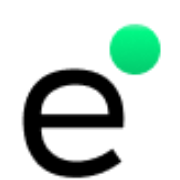
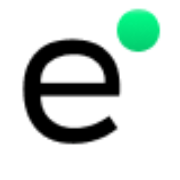
Final touch ecomdot

diff --git a/app/components/Header.tsx b/app/components/Header.tsx
@@ -11,10 +11,10 @@ interface HeaderProps {
 export function Header({  textClass }: HeaderProps) {
   const { theme } = useTheme();
   return (
-    <div className="flex items-center flex-row justify-center  md:justify-between md:px-10 px-4 py-4 shrink ">
-          <div className=" flex space-x-2 items-start ">
+    <div className="flex items-center py-4 flex-row justify-center  md:justify-between md:px-10 px-4  shrink ">
+          <div className=" ">
             <Link to="/" className={`flex space-x-3 justify-start items-center ${textClass || 'text-white h-8'}`} >             
-           <svg className="h-10" viewBox="0 0 282 92" fill="none" xmlns="http://www.w3.org/2000/svg">
+           <svg className="h-8" viewBox="0 0 282 92" fill="none" xmlns="http://www.w3.org/2000/svg">
            <title>Ecom Dot</title>
 <g clip-path="url(#clip0_1908_224)">
 <path d="M49.152 57.304H11.808C11.936 61.464 13.056 64.76 15.168 67.192C17.28 69.624 19.968 71.224 23.232 71.992C26.496 72.76 29.984 72.696 33.696 71.8C37.408 70.904 40.928 69.208 44.256 66.712L48.288 72.664C45.152 75.096 41.888 76.888 38.496 78.04C35.104 79.192 31.712 79.8 28.32 79.864C20.32 80.056 14.208 77.848 9.984 73.24C5.76 68.568 3.648 62.072 3.648 53.752C3.648 46.648 5.632 40.984 9.6 36.76C13.632 32.536 19.456 30.456 27.072 30.52C32.064 30.52 36.32 31.544 39.84 33.592C43.36 35.64 45.952 38.68 47.616 42.712C48.448 44.696 48.96 46.904 49.152 49.336C49.408 51.768 49.408 54.424 49.152 57.304ZM27.456 37.624C23.104 37.624 19.392 38.776 16.32 41.08C13.312 43.32 11.808 46.68 11.808 51.16H42.336C42.336 46.936 40.992 43.64 38.304 41.272C35.68 38.84 32.064 37.624 27.456 37.624ZM93.4583 72.76C90.1303 75.768 86.6423 77.784 82.9943 78.808C79.3463 79.832 75.7943 79.992 72.3383 79.288C68.9463 78.648 65.8423 77.24 63.0263 75.064C60.2743 72.824 58.0663 70.008 56.4022 66.616C54.7383 63.16 53.9063 59.192 53.9063 54.712C53.9063 50.232 54.7063 46.328 56.3063 43C57.9703 39.608 60.1783 36.888 62.9303 34.84C65.7463 32.792 68.8823 31.48 72.3383 30.904C75.7943 30.328 79.3463 30.584 82.9943 31.672C86.7063 32.696 90.2263 34.648 93.5543 37.528L88.7543 43C85.9383 40.568 82.9303 39.096 79.7303 38.584C76.5943 38.008 73.6503 38.328 70.8983 39.544C68.1463 40.696 65.9063 42.584 64.1782 45.208C62.4503 47.768 61.5863 50.936 61.5863 54.712C61.5863 58.744 62.4503 62.168 64.1782 64.984C65.9703 67.736 68.2743 69.752 71.0903 71.032C73.9063 72.248 76.8823 72.568 80.0183 71.992C83.2183 71.416 86.1943 69.752 88.9463 67L93.4583 72.76ZM118.767 80.152C114.159 80.152 110.095 79.16 106.575 77.176C103.119 75.192 100.399 72.408 98.415 68.824C96.495 65.176 95.535 60.92 95.535 56.056C95.535 50.424 96.559 45.72 98.607 41.944C100.655 38.168 103.407 35.32 106.863 33.4C110.383 31.48 114.351 30.52 118.767 30.52C123.311 30.52 127.311 31.48 130.767 33.4C134.287 35.32 137.039 38.168 139.023 41.944C141.007 45.72 141.999 50.424 141.999 56.056C141.999 60.92 141.007 65.176 139.023 68.824C137.039 72.408 134.287 75.192 130.767 77.176C127.311 79.16 123.311 80.152 118.767 80.152ZM118.767 72.856C122.159 72.856 125.039 72.12 127.407 70.648C129.775 69.112 131.567 67.064 132.783 64.504C133.999 61.944 134.607 59.128 134.607 56.056C134.607 50.808 133.231 46.488 130.479 43.096C127.791 39.64 123.887 37.912 118.767 37.912C113.583 37.912 109.647 39.64 106.959 43.096C104.271 46.552 102.927 50.872 102.927 56.056C102.927 59.192 103.503 62.04 104.655 64.6C105.871 67.096 107.663 69.112 110.031 70.648C112.399 72.12 115.311 72.856 118.767 72.856ZM219.899 79H212.41V50.68C212.41 46.328 211.258 43.096 208.954 40.984C206.715 38.872 203.802 37.816 200.218 37.816C196.506 37.816 193.434 38.872 191.003 40.984C188.57 43.096 187.354 46.328 187.354 50.68V79H179.962V50.68C179.962 46.2 178.746 42.936 176.314 40.888C173.882 38.84 170.842 37.816 167.194 37.816C165.274 37.816 163.322 38.264 161.338 39.16C159.354 40.056 157.69 41.464 156.346 43.384C155.066 45.24 154.426 47.672 154.426 50.68V79H146.842V31H154.426V35.896C156.026 34.104 157.946 32.76 160.186 31.864C162.426 30.968 164.762 30.488 167.194 30.424C170.33 30.424 173.402 31.064 176.41 32.344C179.482 33.56 182.042 35.512 184.09 38.2C185.818 35.576 188.186 33.656 191.194 32.44C194.202 31.16 197.338 30.52 200.602 30.52C203.994 30.52 207.163 31.32 210.107 32.92C213.051 34.456 215.419 36.728 217.211 39.736C219.003 42.744 219.899 46.392 219.899 50.68V79Z" fill="currentColor"/>

diff --git a/app/components/IndexLayout.tsx b/app/components/IndexLayout.tsx
@@ -19,8 +19,8 @@ export default function IndexLayout({ children }: LayoutProps) {
 
     <>
 
-    <div className="min-h-screen mx-auto flex flex-col items-stretch grow">
-      <div className="max-w-screen-xl shrink">
+    <div className="min-h-screen flex flex-col items-stretch grow">
+      <div className="max-w-screen-xl  mx-auto w-full">
         <Header textClass="dark:text-white text-black" />
       </div>
       <div className="grow">{children}</div>

diff --git a/app/components/Pricing.tsx b/app/components/Pricing.tsx
@@ -94,7 +94,7 @@ export function Pricing({ pricingData }: PricingProps) {
   const { theme } = useTheme();
 
   return (
-    <div className="py-12">
+    <div className="">
       {/* Header */}
       <div className="py-20 flex justify-center bg-gradient-to-br from-[#1B45B4] to-[#1C2792] px-4 md:px-0">
         <div className="text-center flex flex-col space-y-4 text-white">

diff --git a/app/components/Menu.tsx b/app/components/Menu.tsx
@@ -33,7 +33,7 @@ function MenuItem({
 }) {
   return (
     <Link to={item.url}>
-      <div className="flex  w-full space-x-2 md:text-lg text-inherit">
+      <div className="flex  w-full md:space-x-4 md:text-base text-inherit">
         <div className={textClass ?? "text-white"}>{item.name}</div>
       </div>
     </Link>

diff --git a/app/config/menu-items.ts b/app/config/menu-items.ts
@@ -20,7 +20,7 @@ export const menuItems = [
 
   {
     id: 5,
-    name: "Contact us",
+    name: "Contact Us",
     url: "/contact",
   },
 ];
